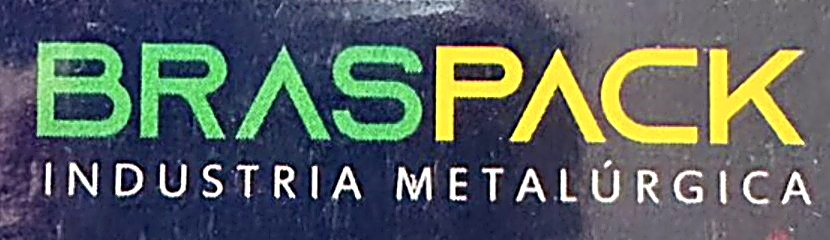
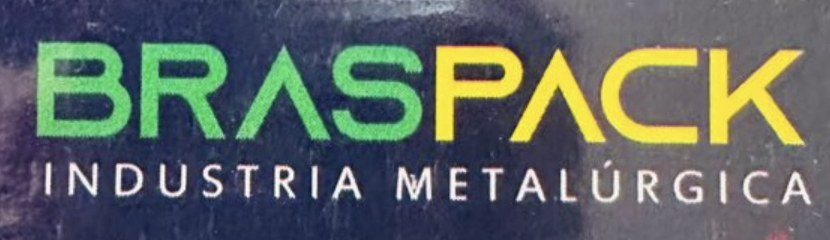
Revert "Melhora a qualidade de todas as fotos do site"
This reverts commit c8c18fae8a9b7d3b904384a54560316da2ff0745.

diff --git a/index.html b/index.html
@@ -49,7 +49,7 @@
   <!-- HERO -->
   <section class="hero">
     <div class="hero-media">
-      <video autoplay muted loop playsinline poster="/assets/img/hero-poster.jpg?v=2">
+      <video autoplay muted loop playsinline poster="/assets/img/hero-poster.jpg">
         <source src="/assets/video/hero-linha.mp4" type="video/mp4">
       </video>
     </div>
@@ -111,32 +111,32 @@
       <div class="steps-grid">
         <div class="step-card reveal">
           <span class="step-num">1</span>
-          <img src="/assets/img/etapa-entrada.jpg?v=2" alt="Cinta de entrada recebendo fruta classificada" loading="lazy">
+          <img src="/assets/img/etapa-entrada.jpg" alt="Cinta de entrada recebendo fruta classificada" loading="lazy">
           <span class="step-caption">Cinta de entrada de fruta</span>
         </div>
         <div class="step-card reveal">
           <span class="step-num">2</span>
-          <img src="/assets/img/etapa-acumulador.jpg?v=2" alt="Acumulador de frutas regulando o abastecimento da linha" loading="lazy">
+          <img src="/assets/img/etapa-acumulador.jpg" alt="Acumulador de frutas regulando o abastecimento da linha" loading="lazy">
           <span class="step-caption">Acumulador de frutas</span>
         </div>
         <div class="step-card reveal">
           <span class="step-num">3</span>
-          <img src="/assets/img/etapa-transportador.jpg?v=2" alt="Transportador distribuindo a fruta para a captação" loading="lazy">
+          <img src="/assets/img/etapa-transportador.jpg" alt="Transportador distribuindo a fruta para a captação" loading="lazy">
           <span class="step-caption">Transportador de frutas</span>
         </div>
         <div class="step-card reveal">
           <span class="step-num">4</span>
-          <img src="/assets/img/etapa-encaixotamento.jpg?v=2" alt="Cabeçote telescópico captando camada de frutas para a caixa" loading="lazy">
+          <img src="/assets/img/etapa-encaixotamento.jpg" alt="Cabeçote telescópico captando camada de frutas para a caixa" loading="lazy">
           <span class="step-caption">Encaixotamento</span>
         </div>
         <div class="step-card reveal">
           <span class="step-num">5</span>
-          <img src="/assets/img/etapa-saida.jpg?v=2" alt="Esteira de saída com caixas montadas prontas para paletização" loading="lazy">
+          <img src="/assets/img/etapa-saida.jpg" alt="Esteira de saída com caixas montadas prontas para paletização" loading="lazy">
           <span class="step-caption">Esteira de saída de caixas</span>
         </div>
         <div class="step-card reveal">
           <span class="step-num">6</span>
-          <img src="/assets/img/etapa-painel.jpg?v=2" alt="Painel de controle RUNPack com receitas de produto" loading="lazy">
+          <img src="/assets/img/etapa-painel.jpg" alt="Painel de controle RUNPack com receitas de produto" loading="lazy">
           <span class="step-caption">Painel de controle RUNPack</span>
         </div>
       </div>
@@ -148,7 +148,7 @@
     <div class="container">
       <div class="split reverse">
         <div class="split-media reveal">
-          <img src="/assets/img/calibre-troca.jpg?v=2" alt="Operador trocando as ventosas do cabeçote para outro calibre de fruta" loading="lazy">
+          <img src="/assets/img/calibre-troca.jpg" alt="Operador trocando as ventosas do cabeçote para outro calibre de fruta" loading="lazy">
         </div>
         <div class="reveal">
           <span class="eyebrow"><span class="chevron"></span> Troca de formato/calibre</span>
@@ -169,7 +169,7 @@
       </div>
       <div class="bento-grid reveal">
         <div class="bento-card">
-          <div class="bento-graphic"><img src="/assets/img/aplicacao-maca.jpg?v=2" alt="Fruta redonda sendo manipulada na linha RUNPack" loading="lazy"></div>
+          <div class="bento-graphic"><img src="/assets/img/aplicacao-maca.jpg" alt="Fruta redonda sendo manipulada na linha RUNPack" loading="lazy"></div>
           <div class="bento-body">
             <span class="bento-eyebrow">Fruta</span>
             <h3>Maçã / pera</h3>
@@ -177,7 +177,7 @@
           </div>
         </div>
         <div class="bento-card">
-          <div class="bento-graphic"><img src="/assets/img/aplicacao-laranja.jpg?v=2" alt="Laranjas sendo captadas pelo cabeçote telescópico" loading="lazy"></div>
+          <div class="bento-graphic"><img src="/assets/img/aplicacao-laranja.jpg" alt="Laranjas sendo captadas pelo cabeçote telescópico" loading="lazy"></div>
           <div class="bento-body">
             <span class="bento-eyebrow">Fruta</span>
             <h3>Laranja</h3>
@@ -185,7 +185,7 @@
           </div>
         </div>
         <div class="bento-card">
-          <div class="bento-graphic"><img src="/assets/img/aplicacao-tangerina.jpg?v=2" alt="Caixas de tangerina prontas na esteira de saída" loading="lazy"></div>
+          <div class="bento-graphic"><img src="/assets/img/aplicacao-tangerina.jpg" alt="Caixas de tangerina prontas na esteira de saída" loading="lazy"></div>
           <div class="bento-body">
             <span class="bento-eyebrow">Fruta</span>
             <h3>Tangerina</h3>

diff --git a/como-funciona/index.html b/como-funciona/index.html
@@ -38,7 +38,7 @@
 
   <section class="page-hero on-video" style="padding-bottom:40px">
     <div class="page-hero-media">
-      <video autoplay muted loop playsinline poster="/assets/img/hero-como-funciona-poster.jpg?v=2">
+      <video autoplay muted loop playsinline poster="/assets/img/hero-como-funciona-poster.jpg">
         <source src="/assets/video/hero-como-funciona.mp4" type="video/mp4">
       </video>
     </div>
@@ -66,7 +66,7 @@
 
       <div class="flow-step" id="entrada">
         <div class="flow-media reveal">
-          <img src="/assets/img/etapa-entrada.jpg?v=2" alt="Cinta de entrada recebendo fruta classificada" loading="lazy">
+          <img src="/assets/img/etapa-entrada.jpg" alt="Cinta de entrada recebendo fruta classificada" loading="lazy">
         </div>
         <div class="reveal">
           <span class="flow-index">ETAPA 01</span>
@@ -77,7 +77,7 @@
 
       <div class="flow-step reverse" id="acumulacao">
         <div class="flow-media reveal">
-          <img src="/assets/img/etapa-acumulador.jpg?v=2" alt="Acumulador de frutas regulando o abastecimento da linha" loading="lazy">
+          <img src="/assets/img/etapa-acumulador.jpg" alt="Acumulador de frutas regulando o abastecimento da linha" loading="lazy">
         </div>
         <div class="reveal">
           <span class="flow-index">ETAPA 02</span>
@@ -88,7 +88,7 @@
 
       <div class="flow-step" id="transporte">
         <div class="flow-media reveal">
-          <img src="/assets/img/etapa-transportador.jpg?v=2" alt="Transportador distribuindo a fruta para a captação" loading="lazy">
+          <img src="/assets/img/etapa-transportador.jpg" alt="Transportador distribuindo a fruta para a captação" loading="lazy">
         </div>
         <div class="reveal">
           <span class="flow-index">ETAPA 03</span>
@@ -99,7 +99,7 @@
 
       <div class="flow-step reverse" id="encaixotamento">
         <div class="flow-media reveal">
-          <img src="/assets/img/etapa-encaixotamento.jpg?v=2" alt="Cabeçote telescópico captando camada de frutas para a caixa" loading="lazy">
+          <img src="/assets/img/etapa-encaixotamento.jpg" alt="Cabeçote telescópico captando camada de frutas para a caixa" loading="lazy">
         </div>
         <div class="reveal">
           <span class="flow-index">ETAPA 04</span>
@@ -110,7 +110,7 @@
 
       <div class="flow-step" id="saida">
         <div class="flow-media reveal">
-          <img src="/assets/img/etapa-saida.jpg?v=2" alt="Esteira de saída com caixas montadas prontas para paletização" loading="lazy">
+          <img src="/assets/img/etapa-saida.jpg" alt="Esteira de saída com caixas montadas prontas para paletização" loading="lazy">
         </div>
         <div class="reveal">
           <span class="flow-index">ETAPA 05</span>
@@ -121,7 +121,7 @@
 
       <div class="flow-step reverse" id="controle">
         <div class="flow-media reveal">
-          <img src="/assets/img/etapa-painel.jpg?v=2" alt="Painel de controle RUNPack com receitas de produto" loading="lazy">
+          <img src="/assets/img/etapa-painel.jpg" alt="Painel de controle RUNPack com receitas de produto" loading="lazy">
         </div>
         <div class="reveal">
           <span class="flow-index">ETAPA 06</span>

diff --git a/aplicacoes/index.html b/aplicacoes/index.html
@@ -38,7 +38,7 @@
 
   <section class="page-hero on-video">
     <div class="page-hero-media">
-      <video autoplay muted loop playsinline poster="/assets/img/hero-aplicacoes-poster.jpg?v=2">
+      <video autoplay muted loop playsinline poster="/assets/img/hero-aplicacoes-poster.jpg">
         <source src="/assets/video/hero-aplicacoes.mp4" type="video/mp4">
       </video>
     </div>
@@ -53,15 +53,15 @@
     <div class="container">
       <div class="grid-3">
         <div class="card reveal">
-          <div class="card-img"><img src="/assets/img/aplicacao-maca.jpg?v=2" alt="Fruta redonda sendo manipulada na linha RUNPack" loading="lazy"></div>
+          <div class="card-img"><img src="/assets/img/aplicacao-maca.jpg" alt="Fruta redonda sendo manipulada na linha RUNPack" loading="lazy"></div>
           <div class="card-body"><h3>Maçã / pera</h3><p>Captação por ventosas sem impacto na casca, mantendo o valor comercial da fruta.</p></div>
         </div>
         <div class="card reveal">
-          <div class="card-img"><img src="/assets/img/aplicacao-laranja.jpg?v=2" alt="Laranjas sendo captadas pelo cabeçote telescópico" loading="lazy"></div>
+          <div class="card-img"><img src="/assets/img/aplicacao-laranja.jpg" alt="Laranjas sendo captadas pelo cabeçote telescópico" loading="lazy"></div>
           <div class="card-body"><h3>Laranja</h3><p>Mesma linha, receita de calibre diferente — sem troca de equipamento.</p></div>
         </div>
         <div class="card reveal">
-          <div class="card-img"><img src="/assets/img/aplicacao-tangerina.jpg?v=2" alt="Caixas de tangerina prontas na esteira de saída" loading="lazy"></div>
+          <div class="card-img"><img src="/assets/img/aplicacao-tangerina.jpg" alt="Caixas de tangerina prontas na esteira de saída" loading="lazy"></div>
           <div class="card-body"><h3>Tangerina</h3><p>Formato de caixa ajustado diretamente no painel touch.</p></div>
         </div>
         <div class="card reveal" style="opacity:.7">
@@ -84,7 +84,7 @@
     <div class="container">
       <div class="split reveal">
         <div class="split-media">
-          <img src="/assets/img/calibre-troca.jpg?v=2" alt="Operador trocando as ventosas do cabeçote para outro calibre de fruta" loading="lazy">
+          <img src="/assets/img/calibre-troca.jpg" alt="Operador trocando as ventosas do cabeçote para outro calibre de fruta" loading="lazy">
         </div>
         <div>
           <span class="eyebrow"><span class="chevron"></span> Formatos de caixa</span>

diff --git a/maquinas/telescopica-rpe/index.html b/maquinas/telescopica-rpe/index.html
@@ -17,7 +17,7 @@
   "name": "Empacadora Telescópica-RPE",
   "brand": { "@type": "Brand", "name": "Braspack" },
   "description": "Empacadora automática de fruta em caixa com cabeçote telescópico de ventosas e troca rápida de formato/calibre, tecnologia RUNPack. Produção de até 600 caixas/hora em picos.",
-  "image": "/assets/img/etapa-encaixotamento.jpg?v=2"
+  "image": "/assets/img/etapa-encaixotamento.jpg"
 }
 </script>
 </head>
@@ -61,7 +61,7 @@
           </div>
         </div>
         <div class="split-media">
-          <img src="/assets/img/etapa-encaixotamento.jpg?v=2" alt="Cabeçote telescópico da Telescópica-RPE captando camada de frutas" loading="lazy">
+          <img src="/assets/img/etapa-encaixotamento.jpg" alt="Cabeçote telescópico da Telescópica-RPE captando camada de frutas" loading="lazy">
         </div>
       </div>
     </div>
@@ -101,7 +101,7 @@
     <div class="container">
       <div class="split reverse">
         <div class="split-media reveal">
-          <img src="/assets/img/etapa-painel.jpg?v=2" alt="Painel touch da Telescópica-RPE com receitas de produto" loading="lazy">
+          <img src="/assets/img/etapa-painel.jpg" alt="Painel touch da Telescópica-RPE com receitas de produto" loading="lazy">
         </div>
         <div class="reveal">
           <span class="eyebrow"><span class="chevron"></span> Características</span>
@@ -127,7 +127,7 @@
         <h2>A Telescópica-RPE em operação</h2>
       </div>
       <div class="reveal" style="max-width:900px;margin:0 auto;border-radius:var(--radius);overflow:hidden;box-shadow:var(--shadow-md)">
-        <video controls preload="none" poster="/assets/img/hero-poster.jpg?v=2" style="width:100%;display:block;background:#000">
+        <video controls preload="none" poster="/assets/img/hero-poster.jpg" style="width:100%;display:block;background:#000">
           <source src="/assets/video/telescopica-rpe-completo.mp4" type="video/mp4">
         </video>
       </div>

diff --git a/sobre/index.html b/sobre/index.html
@@ -38,7 +38,7 @@
 
   <section class="page-hero on-video">
     <div class="page-hero-media">
-      <video autoplay muted loop playsinline poster="/assets/img/hero-sobre-poster.jpg?v=2">
+      <video autoplay muted loop playsinline poster="/assets/img/hero-sobre-poster.jpg">
         <source src="/assets/video/hero-sobre.mp4" type="video/mp4">
       </video>
     </div>
@@ -53,7 +53,7 @@
     <div class="container">
       <div class="split reverse reveal">
         <div class="split-media reveal">
-          <img src="/assets/img/sobre-linha-operacao.jpg?v=2" alt="Linha RUNPack em operação em packing house, com caixas de lima Tahiti sendo preenchidas" loading="lazy">
+          <img src="/assets/img/sobre-linha-operacao.jpg" alt="Linha RUNPack em operação em packing house, com caixas de lima Tahiti sendo preenchidas" loading="lazy">
           <p class="lede" style="max-width:none;text-align:left;line-height:1.75;margin-top:22px">Hoje, cerca de <strong>10 equipamentos</strong> já operam em diferentes packings no estado de São Paulo, em condições comerciais reais — uma solução comprovada em campo, não um protótipo experimental. Além da atividade industrial, a Braspack está habilitada a operar como importadora e exportadora.</p>
         </div>
         <div class="reveal">
@@ -74,7 +74,7 @@
         <p class="lede" style="margin-inline:auto">Apresentação completa da linha, com áudio.</p>
       </div>
       <div class="reveal" style="max-width:900px;margin:0 auto;border-radius:var(--radius);overflow:hidden;box-shadow:var(--shadow-md)">
-        <video controls preload="none" poster="/assets/img/hero-poster.jpg?v=2" style="width:100%;display:block;background:#000">
+        <video controls preload="none" poster="/assets/img/hero-poster.jpg" style="width:100%;display:block;background:#000">
           <source src="/assets/video/telescopica-rpe-completo.mp4" type="video/mp4">
         </video>
       </div>

diff --git a/maquinas/index.html b/maquinas/index.html
@@ -55,7 +55,7 @@
 
   <section class="page-hero on-video">
     <div class="page-hero-media">
-      <video autoplay muted loop playsinline poster="/assets/img/hero-maquinas-poster.jpg?v=2">
+      <video autoplay muted loop playsinline poster="/assets/img/hero-maquinas-poster.jpg">
         <source src="/assets/video/hero-maquinas.mp4" type="video/mp4">
       </video>
     </div>
@@ -71,7 +71,7 @@
       <div class="grid-3">
 
         <a href="/maquinas/telescopica-rpe/" class="card reveal">
-          <div class="card-img"><img src="/assets/img/etapa-encaixotamento.jpg?v=2" alt="Empacadora Telescópica-RPE captando camada de frutas" loading="lazy"></div>
+          <div class="card-img"><img src="/assets/img/etapa-encaixotamento.jpg" alt="Empacadora Telescópica-RPE captando camada de frutas" loading="lazy"></div>
           <div class="card-body">
             <span class="card-tag">Empacadora</span>
             <h3>Telescópica-RPE</h3>

diff --git a/contato/index.html b/contato/index.html
@@ -38,7 +38,7 @@
 
   <section class="page-hero on-video">
     <div class="page-hero-media">
-      <video autoplay muted loop playsinline poster="/assets/img/hero-contato-poster.jpg?v=2">
+      <video autoplay muted loop playsinline poster="/assets/img/hero-contato-poster.jpg">
         <source src="/assets/video/hero-contato.mp4" type="video/mp4">
       </video>
     </div>

diff --git a/suporte/index.html b/suporte/index.html
@@ -38,7 +38,7 @@
 
   <section class="page-hero on-video">
     <div class="page-hero-media">
-      <video autoplay muted loop playsinline poster="/assets/img/hero-suporte-poster.jpg?v=2">
+      <video autoplay muted loop playsinline poster="/assets/img/hero-suporte-poster.jpg">
         <source src="/assets/video/hero-suporte.mp4" type="video/mp4">
       </video>
     </div>
